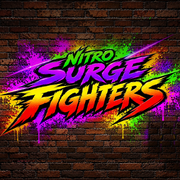
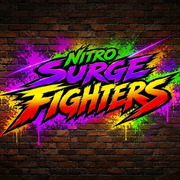
Nouvelle icone carree de l'app

diff --git a/index.html b/index.html
@@ -4,8 +4,8 @@
 <meta charset="utf-8">
 <meta name="viewport" content="width=device-width,initial-scale=1,maximum-scale=1,user-scalable=no,viewport-fit=cover">
 <meta name="apple-mobile-web-app-capable" content="yes">
-<link rel="apple-touch-icon" href="icon-180.png?v=5">
-<link rel="icon" type="image/png" href="icon-192.png?v=5">
+<link rel="apple-touch-icon" href="icon-180.png?v=6">
+<link rel="icon" type="image/png" href="icon-192.png?v=6">
 <meta name="mobile-web-app-capable" content="yes">
 <meta name="apple-mobile-web-app-status-bar-style" content="black-translucent">
 <meta name="theme-color" content="#000000">
@@ -27,7 +27,7 @@
 <meta property="og:image:alt" content="Nitro Surge Fighters logo">
 <meta name="twitter:card" content="summary_large_image">
 <meta name="twitter:image" content="https://cameleon-ds.github.io/nitro-surge-fighters/og.jpg?v=4">
-<link rel="manifest" href="manifest.json?v=7">
+<link rel="manifest" href="manifest.json?v=8">
 <meta name="apple-mobile-web-app-title" content="Nitro Surge Fighters">
 <meta name="application-name" content="Nitro Surge Fighters">
 <link rel="preconnect" href="https://fonts.googleapis.com">
